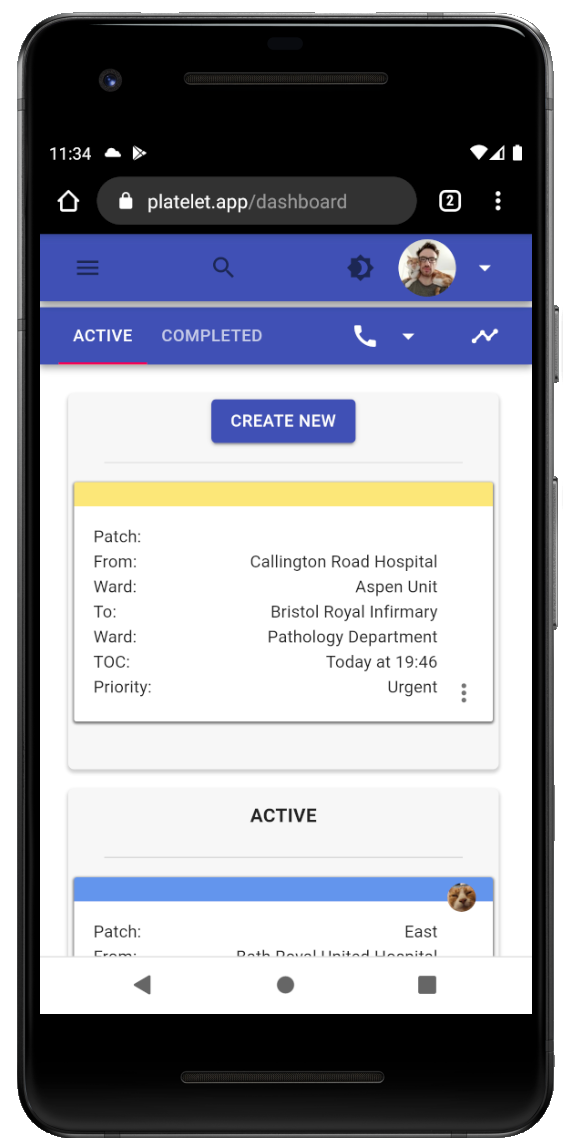
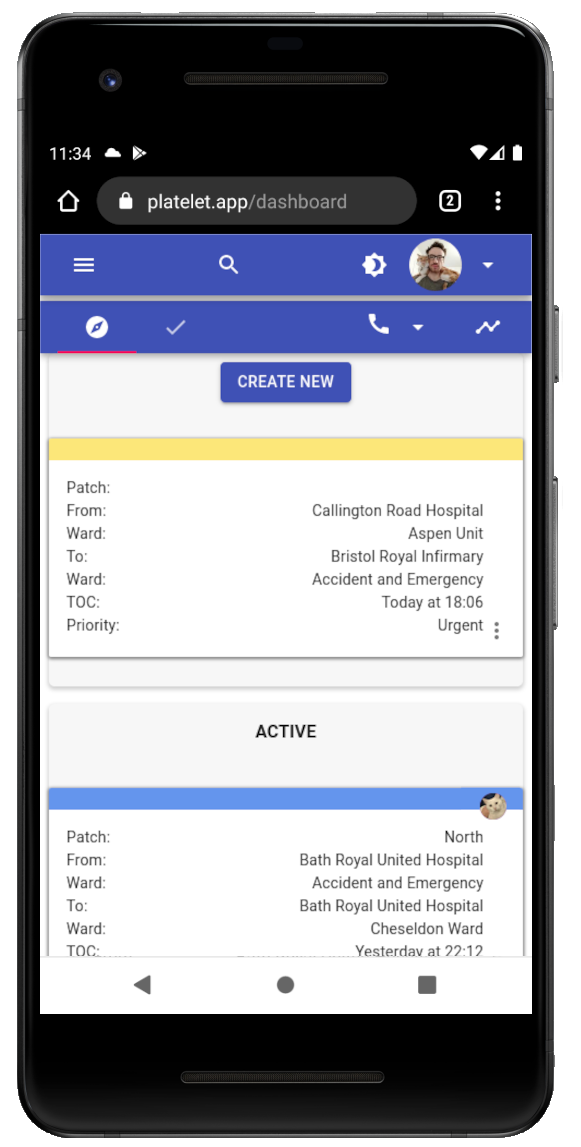
improved images for mobile and dialog

Changed region(s): [[0.062, 0.1831, 0.9294, 0.6408], [0.062, 0.6713, 0.9294, 0.8544]]

diff --git a/src/views/IndexView/components/DialogShowcase/DialogShowcase.js b/src/views/IndexView/components/DialogShowcase/DialogShowcase.js
@@ -1,81 +1,41 @@
 import React from "react";
 import {Grid, Typography, useMediaQuery} from "@material-ui/core";
-import {makeStyles, useTheme} from "@material-ui/core/styles";
-import dialog_light from "../../../../assets/images/dialog-light.png"
-import dialog_dark from "../../../../assets/images/dialog-dark.png"
-
-
-const useStyles = makeStyles(theme => ({
-    root: {
-        height: 600
-    },
-    text: {
-        [theme.breakpoints.down('sm')]: {
-            height: 400,
-            width: 250,
-        },
-        height: 700,
-        width: 400,
-        display: "flex"
-    },
-    item: {
-        width: 500
-    },
-    background: {
-        [theme.breakpoints.down('sm')]: {
-            height: 530,
-            width: 380,
-        },
-        backgroundImage: `url(${dialog_light})`,
-        height: 700,
-        backgroundRepeat: "no-repeat",
-        width: 550,
-        backgroundSize: 'contain',
-    },
-    backgroundDark: {
-        [theme.breakpoints.down('sm')]: {
-            height: 530,
-            width: 380,
-        },
-        backgroundImage: `url(${dialog_dark})`,
-        height: 700,
-        backgroundRepeat: "no-repeat",
-        width: 550,
-        backgroundSize: 'contain',
-    }
-}))
+import {useTheme} from "@material-ui/core/styles";
+import showCaseStyles from "../../styles";
+import clsx from "clsx";
 
 const DialogShowcase = ({themeMode = 'light', ...rest}) => {
-    const classes = useStyles();
+    const classes = showCaseStyles();
 
     const theme = useTheme();
     const isMd = useMediaQuery(theme.breakpoints.up('md'), {
         defaultMatches: true,
     });
 
-    const item1 =
-        <Grid container item data-aos={'fade-left'} alignItems={"center"} justify={"center"} spacing={2} direction={"column"} className={classes.text}>
-            <Grid item>
-                <Typography variant={"h4"}>
-                    Easily view, edit and share job details
-                </Typography>
+    const isSm = theme.breakpoints.down("sm");
+    const dialogClass = themeMode === "dark" ? classes.dialogBackDark : classes.dialogBack
+
+
+    return (
+        <Grid container spacing={isSm ? 0 : 3} direction={"row-reverse"} justify={"space-between"} alignItems={"center"}>
+            <Grid className={classes.item} item>
+                <div className={clsx(classes.background, dialogClass)}/>
             </Grid>
-            <Grid item>
-                <Typography variant={"h6"}>Select from a directory of hospital locations and items. Share extra details in comments, or make private notes.</Typography>
+            <Grid container data-aos={'fade-right'} item alignItems={"center"} justify={"center"} spacing={isSm ? 0 : 2}
+                  direction={"column"} className={classes.text}>
+                <Grid item>
+                    <Typography variant={"h4"}>
+                        Easily view, edit and share job details
+                    </Typography>
+                </Grid>
+                <Grid item>
+                    <Typography variant={"h6"}>
+                        Select from a directory of hospital locations and items. Share extra details in comments, or make private notes.
+                    </Typography>
+                </Grid>
             </Grid>
         </Grid>
-
-    const item2 =
-        <Grid item>
-            <div className={themeMode === "dark"? classes.backgroundDark : classes.background}/>
-        </Grid>
-
-        return (
-            <Grid container direction={isMd ? "row" : "column-reverse"} justify={"space-between"} alignItems={isMd ? "center" : "flex-start"}>
-                {item1}
-                {item2}
-            </Grid>
-        )
+    )
 
 }
 

diff --git a/src/views/IndexView/components/MobileShowcase/MobileShowcase.js b/src/views/IndexView/components/MobileShowcase/MobileShowcase.js
@@ -1,79 +1,38 @@
 import React from "react";
 import {Grid, Typography, useMediaQuery} from "@material-ui/core";
-import {makeStyles, useTheme} from "@material-ui/core/styles";
-import mobile_light from "../../../../assets/images/mobile-light.png"
-import mobile_dark from "../../../../assets/images/mobile-dark.png"
+import {useTheme} from "@material-ui/core/styles";
+import showCaseStyles from "../../styles";
+import clsx from "clsx";
 
-
-const useStyles = makeStyles(theme => ({
-    root: {
-        height: 600
-    },
-    text: {
-        [theme.breakpoints.down('sm')]: {
-            height: 400,
-            width: 250,
-        },
-        height: 700,
-        width: 400,
-        display: "flex"
-    },
-    item: {
-        width: 500
-    },
-    background: {
-        [theme.breakpoints.down('sm')]: {
-            height: 530,
-            width: 380,
-        },
-        backgroundImage: `url(${mobile_light})`,
-        height: 700,
-        backgroundRepeat: "no-repeat",
-        width: 550,
-        backgroundSize: 'contain',
-    },
-    backgroundDark: {
-        [theme.breakpoints.down('sm')]: {
-            height: 530,
-            width: 380,
-        },
-        backgroundImage: `url(${mobile_dark})`,
-        height: 700,
-        backgroundRepeat: "no-repeat",
-        width: 550,
-        backgroundSize: 'contain',
-    }
-}))
 
 const MobileShowcase = ({themeMode = 'light', ...rest}) => {
-    const classes = useStyles();
+    const classes = showCaseStyles();
 
     const theme = useTheme();
     const isMd = useMediaQuery(theme.breakpoints.up('md'), {
         defaultMatches: true,
     });
 
-    const item1 =
-        <Grid container item data-aos={'fade-left'} alignItems={"center"} justify={"center"} spacing={2} direction={"column"} className={classes.text}>
-            <Grid item>
-                <Typography variant={"h4"}>
-                    Use from any internet capable device
-                </Typography>
-            </Grid>
-            <Grid item>
-                <Typography variant={"h6"}>Use on any device with an internet browser. A native mobile app is planned.</Typography>
-            </Grid>
-        </Grid>
+    const isSm = useMediaQuery(theme.breakpoints.down('sm'));
 
-    const item2 =
-        <Grid item>
-            <div className={themeMode === "dark"? classes.backgroundDark : classes.background}/>
-        </Grid>
+    const mobileClass = themeMode === "dark" ? classes.mobileBackDark : classes.mobileBack
 
     return (
-        <Grid container direction={isMd ? "row" : "column"} justify={"space-between"} alignItems={isMd ? "center" : "flex-start"}>
-            {item2}
-            {item1}
+        <Grid container spacing={isSm ? 0 : 3} direction={"row"} justify={"space-between"} alignItems={"center"}>
+            <Grid className={classes.item} item>
+                <div className={clsx(classes.background, mobileClass)}/>
+            </Grid>
+            <Grid container data-aos={'fade-right'} item alignItems={"center"} justify={"center"} spacing={isSm ? 0 : 2}
+                  direction={"column"} className={classes.text}>
+                <Grid item>
+                    <Typography variant={"h4"}>
+                        Use from any internet capable device
+                    </Typography>
+                </Grid>
+                <Grid item>
+                    <Typography variant={"h6"}>Use on any device with an internet browser. A native mobile app is planned.</Typography>
+                </Grid>
+            </Grid>
         </Grid>
     )
 

diff --git a/src/views/IndexView/components/DashboardShowcase/DashboardShowcase.js b/src/views/IndexView/components/DashboardShowcase/DashboardShowcase.js
@@ -1,58 +1,21 @@
 import React from "react";
-import dashboard_dark from '../../../../assets/images/dashboard-dark.png'
-import dashboard_light from '../../../../assets/images/dashboard-light.png'
 import {Grid, Typography} from "@material-ui/core";
-import {makeStyles} from "@material-ui/core/styles";
-
-const useStyles = makeStyles(theme => ({
-    root: {
-        height: 600
-    },
-    right: {
-        [theme.breakpoints.down('sm')]: {
-            height: 400,
-            width: 250,
-        },
-        height: 700,
-        width: 400,
-        display: "flex"
-    },
-    item: {
-        width: 500
-    },
-    background: {
-        [theme.breakpoints.down('sm')]: {
-            height: 530,
-            width: 380,
-        },
-        backgroundImage: `url(${dashboard_light})`,
-        height: 700,
-        backgroundRepeat: "no-repeat",
-        width: 550,
-        backgroundSize: 'contain',
-    },
-    backgroundDark: {
-        [theme.breakpoints.down('sm')]: {
-            height: 530,
-            width: 380,
-        },
-        backgroundImage: `url(${dashboard_dark})`,
-        height: 700,
-        backgroundRepeat: "no-repeat",
-        width: 550,
-        backgroundSize: 'contain',
-    }
-}))
+import {useTheme} from "@material-ui/core/styles";
+import showCaseStyles from "../../styles";
+import clsx from "clsx";
 
 const DashboardShowcase = ({themeMode = 'light', ...rest}) => {
-    const classes = useStyles();
+    const classes = showCaseStyles();
+    const theme = useTheme();
+    const dashboardClass = themeMode === "dark" ? classes.dashboardBackDark : classes.dashboardBack
+    const isSm = theme.breakpoints.down("sm");
     return (
-        <Grid container spacing={3} direction={"row"} justify={"space-between"} alignItems={"center"}>
-            <Grid item>
-                <div className={themeMode === "dark" ? classes.backgroundDark : classes.background}/>
+        <Grid container spacing={isSm ? 0 : 3} direction={"row"} justify={"space-between"} alignItems={"center"}>
+            <Grid className={classes.item} item>
+                <div className={clsx(classes.background, dashboardClass)}/>
             </Grid>
-            <Grid container data-aos={'fade-right'} item alignItems={"center"} justify={"center"} spacing={2}
-                  direction={"column"} className={classes.right}>
+            <Grid container data-aos={'fade-right'} item alignItems={"center"} justify={"center"} spacing={isSm ? 0 : 2}
+                  direction={"column"} className={classes.text}>
                 <Grid item>
                     <Typography variant={"h4"}>
                         Tailored dashboards for coordinators and riders

diff --git a/src/views/IndexView/styles.js b/src/views/IndexView/styles.js
@@ -1,0 +1,57 @@
+import {makeStyles} from "@material-ui/core/styles";
+import dashboard_light from "../../assets/images/dashboard-light.png";
+import dashboard_dark from "../../assets/images/dashboard-dark.png";
+import dialog_light from "../../assets/images/dialog-light-new.png";
+import dialog_dark from "../../assets/images/dialog-dark-new.png";
+import mobile_light from "../../assets/images/mobile-light.png";
+import mobile_dark from "../../assets/images/mobile-dark.png";
+
+const showCaseStyles = makeStyles(theme => ({
+    root: {
+        height: 600
+    },
+    text: {
+        [theme.breakpoints.down('sm')]: {
+            height: 400,
+            width: "100%",
+        },
+        height: 700,
+        width: 400,
+        display: "flex"
+    },
+    item: {
+        width: "100%",
+        maxWidth: 550
+    },
+    background: {
+        [theme.breakpoints.down('sm')]: {
+            height: 530,
+            width: "100%",
+        },
+        height: 700,
+        backgroundRepeat: "no-repeat",
+        width: 550,
+        backgroundSize: "contain",
+        backgroundPosition:"center"
+    },
+    dashboardBack: {
+        backgroundImage: `url(${dashboard_light})`,
+    },
+    dashboardBackDark: {
+        backgroundImage: `url(${dashboard_dark})`,
+    },
+    dialogBack: {
+        backgroundImage: `url(${dialog_light})`
+    },
+    dialogBackDark: {
+        backgroundImage: `url(${dialog_dark})`
+    },
+    mobileBack: {
+        backgroundImage: `url(${mobile_light})`
+    },
+    mobileBackDark: {
+        backgroundImage: `url(${mobile_dark})`
+    }
+}))
+
+export default showCaseStyles;

diff --git a/src/views/IndexView/IndexView.js b/src/views/IndexView/IndexView.js
@@ -1,5 +1,5 @@
 import React from 'react';
-import {makeStyles, Divider} from '@material-ui/core';
+import {makeStyles, Divider, Container} from '@material-ui/core';
 import {Section, SectionAlternate} from 'components/organisms';
 import {GetStarted, Features, Hero, DialogShowcase} from './components';
 import DashboardShowcase from "./components/DashboardShowcase";
@@ -18,9 +18,8 @@ const useStyles = makeStyles(() => ({
 }));
 
 const IndexView = ({themeMode}) => {
-    const classes = useStyles();
     return (
-        <div>
+        <div style={{width: "100%"}}>
             <Hero themeMode={themeMode}/>
             <SectionAlternate>
                 <DashboardShowcase themeMode={themeMode}/>
